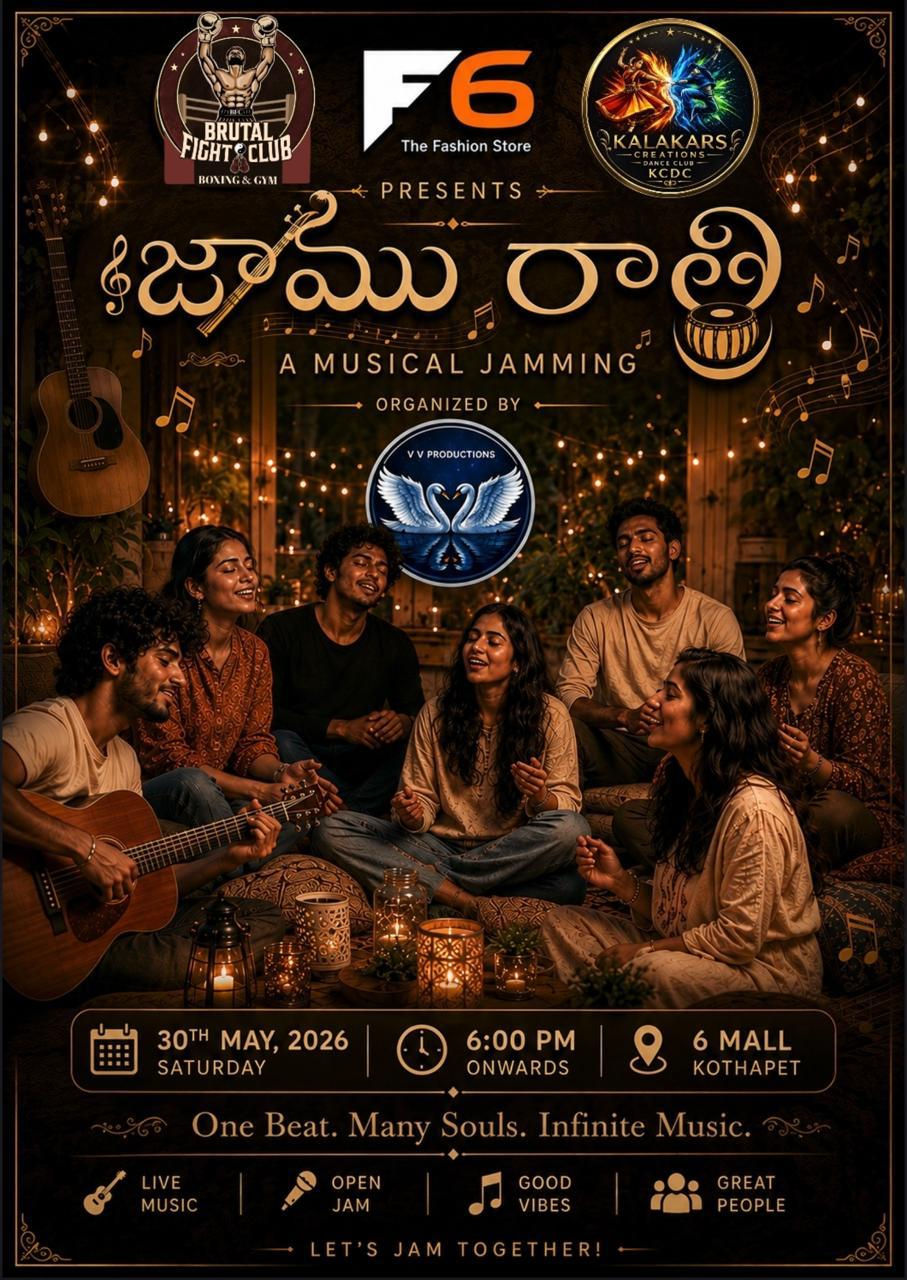
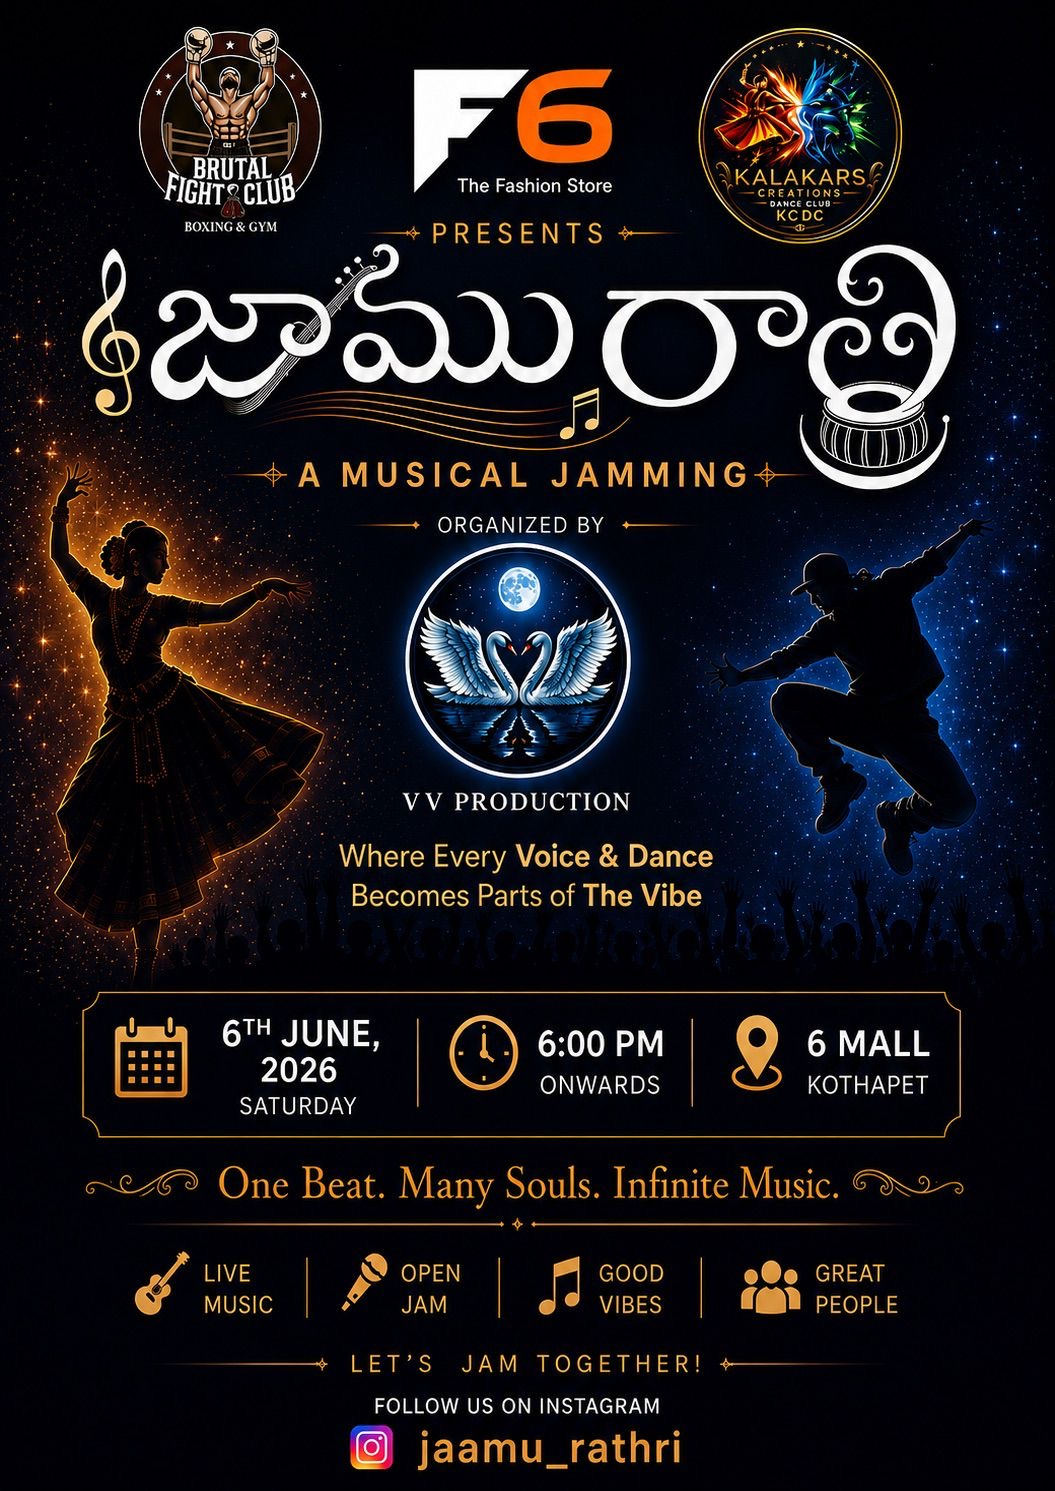
date change

diff --git a/frontend/src/components/jam/EventDetails.jsx b/frontend/src/components/jam/EventDetails.jsx
@@ -21,7 +21,7 @@ const EventDetails = () => {
                 Date
               </p>
               <p className="text-white font-medium">
-                30th May 2026
+                6th June   2026
               </p>
             </div>
           </div>
@@ -57,7 +57,7 @@ const EventDetails = () => {
                 Entry Fee
               </p>
               <p className="text-white font-medium">
-                ₹299
+                ₹139
               </p>
             </div>
           </div>

diff --git a/frontend/src/components/jam/JamHero.jsx b/frontend/src/components/jam/JamHero.jsx
@@ -16,7 +16,7 @@ export default function JamHero() {
         <div className="text-white max-w-4xl">
           {/* Small Heading */}
           <p className="uppercase tracking-[0.3em] text-gray-300 text-sm mb-4">
-            Live Music • Open Mic • Goa Nights
+            Live Music • Open Mic 
           </p>
 
           {/* Main Title */}
